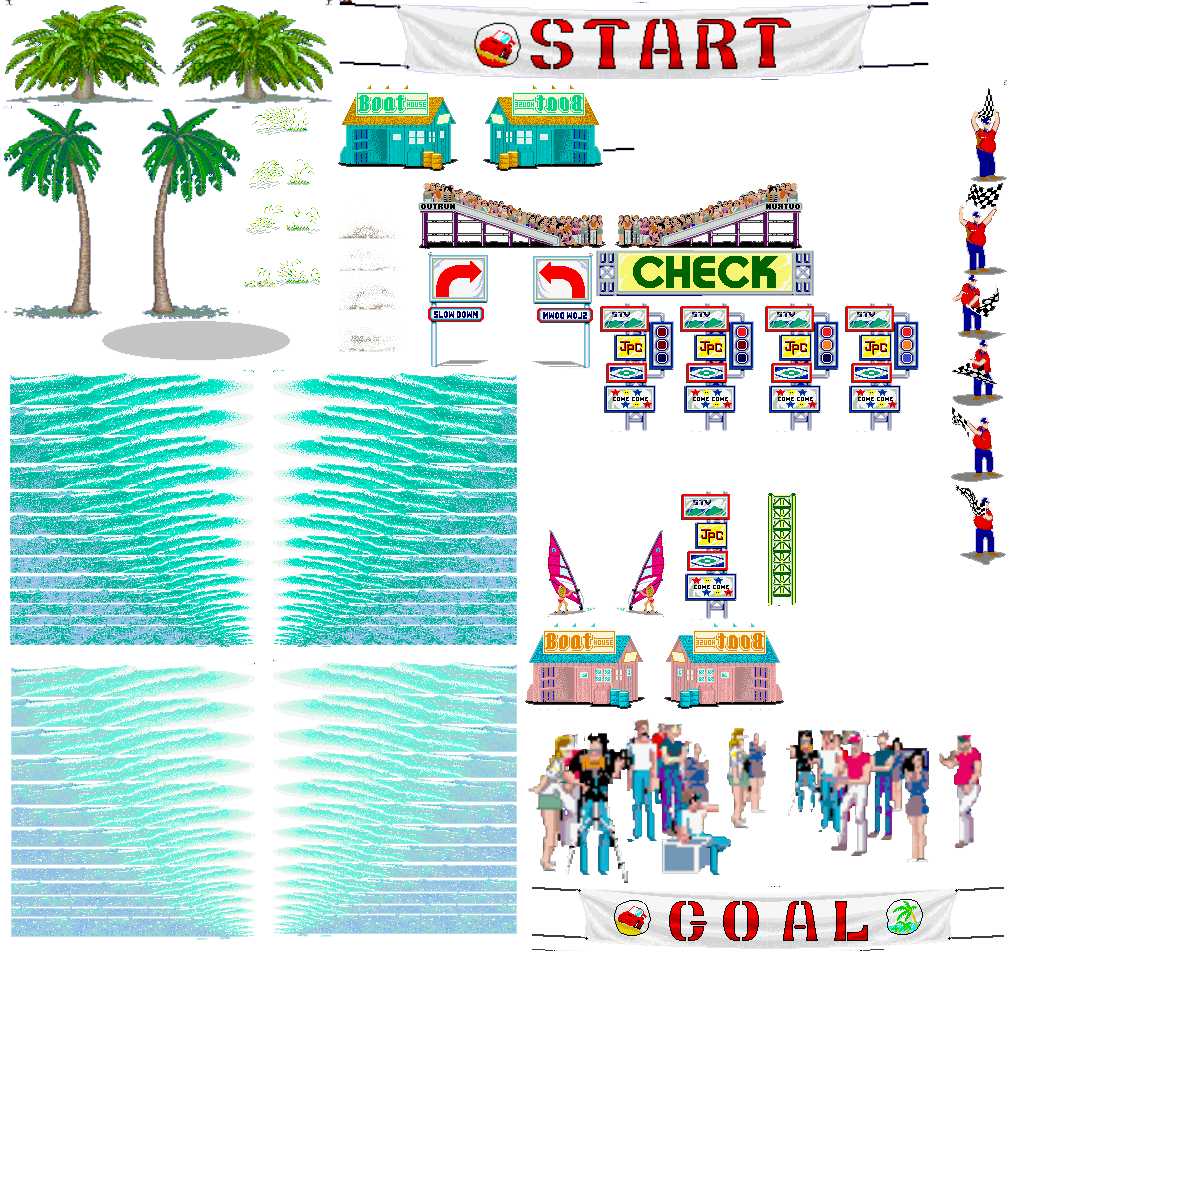
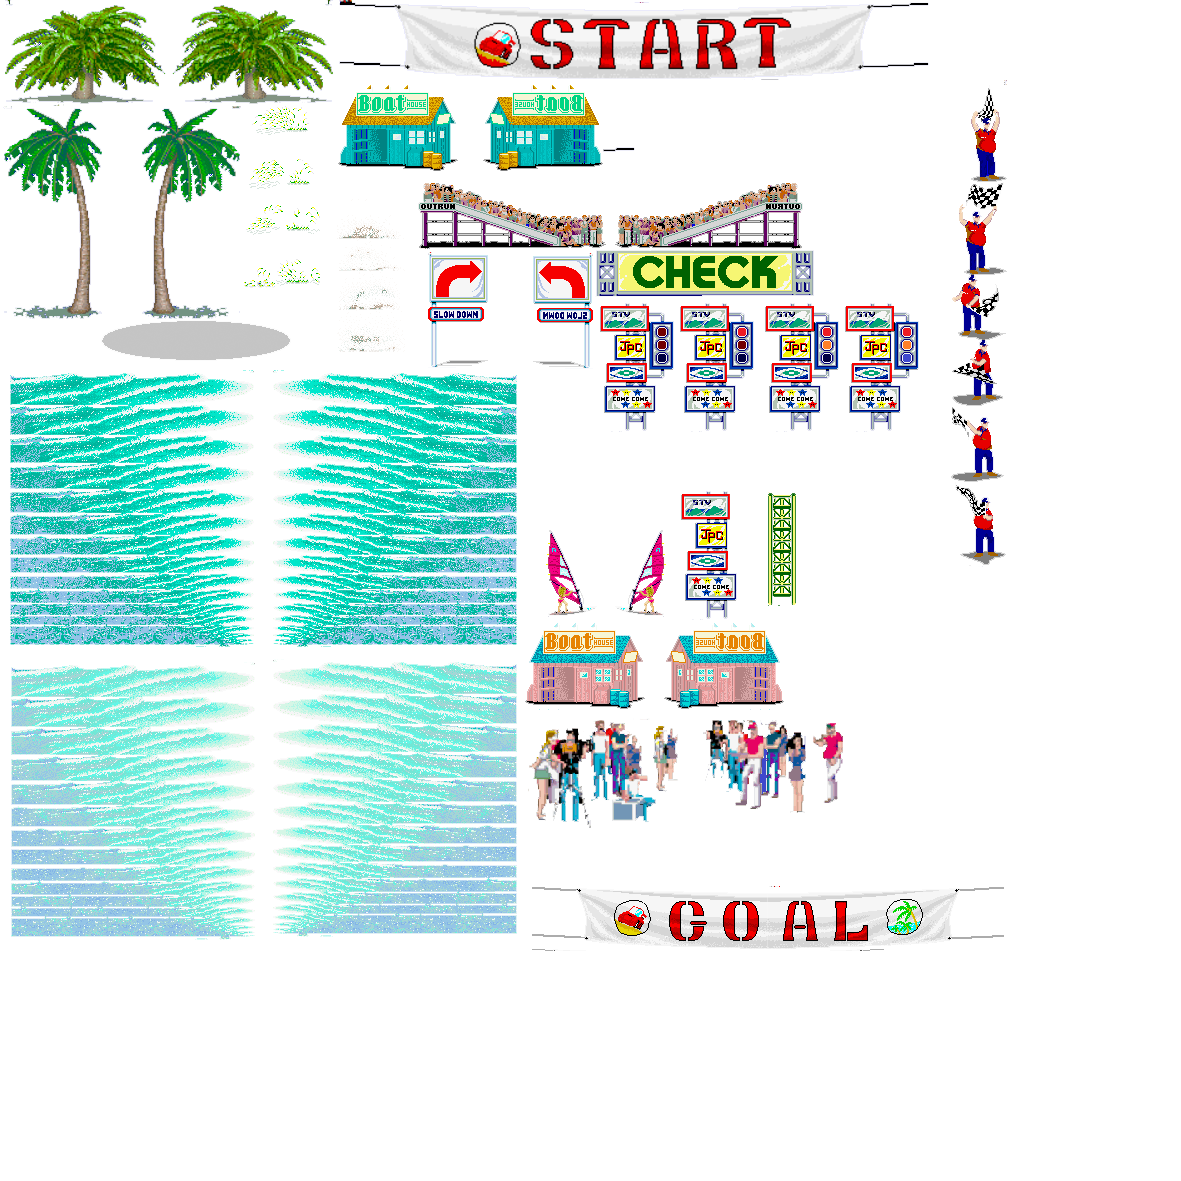
OutRun - Changes: +Balancing height of the objects

diff --git a/ModuleSceneStage.cpp b/ModuleSceneStage.cpp
@@ -79,7 +79,8 @@ ModuleSceneStage::ModuleSceneStage(bool start_enabled) : Module(start_enabled)
 	lppos = Rects.size() - 1;
 
 	Rect * StartFlag = new Rect();
-	StartFlag->rect={339, 256, 59, 111};
+	StartFlag->rect = { 340, 2,587 , 75 };
+//	StartFlag->rect={339, 256, 59, 111};
 	Rects.push_back(StartFlag);
 	sfpos = Rects.size() - 1;
 
@@ -104,14 +105,16 @@ ModuleSceneStage::ModuleSceneStage(bool start_enabled) : Module(start_enabled)
 	surpos = Rects.size() - 1;
 
 	Rect * People1 = new Rect();
-	People1->rect = { 528, 720, 238, 161 };
+	//People1->rect = { 528, 720, 238, 161 };
+	People1->rect = { 529, 601, 148, 226 };
 	Rects.push_back(People1);
-	surpos = Rects.size() - 1;
+	peopos1 = Rects.size() - 1;
 
 	Rect * People2 = new Rect();
-	People2->rect = { 786, 730, 195, 130 };
+	//People2->rect = { 786, 730, 195, 130 };
+	People2->rect = { 703, 717, 139, 95 };
 	Rects.push_back(People2);
-	surpos = Rects.size() - 1;
+	peopos2 = Rects.size() - 1;
 
 	Rect * Harrow = new Rect();
 	Harrow->rect = { 419, 183, 187, 64 };
@@ -178,24 +181,39 @@ ModuleSceneStage::ModuleSceneStage(bool start_enabled) : Module(start_enabled)
 		Line line;
 		line.zc = (float)i * 100;
 
-		if (0<i && i<780) {	
-			if (i<390) {
+		if (0<i && i<780) {
+			if (i == 24) {
+				line.position = peopos1;
+				line.spriteX = -0.8;
+			}
+			if (i == 26) {
+				line.position = peopos2;
+				line.spriteX = 0.8;
+			}
+			if (i == 25) {
+				line.position = sfpos;
+				line.spriteX = 0;
+				line.elevate = -250;
+			}
+			if (i<390 && (i>=24 && i<=26)) {
 				if (i % 20 == 0) {
 					line.position = harrowpos;
 					line.spriteX = -1.5;
 					line.scale = 3;
+					line.elevate = -10;
 				}
 				if (i % 21 == 0) {
 					line.position = ptbpos;
 					line.spriteX = 1.5;
+					line.elevate = -10;
 				}
 			}
 			else {
-				if (i % 20 == 0) {
+				if (i % 20 == 0 (i >= 24 && i <= 26)) {
 					line.position = ptspos;
 					line.spriteX = 1.5;
 				}
-				if (i % 21 == 0) {
+				if (i % 21 == 0 (i >= 24 && i <= 26)) {
 					line.position = ptspos;
 					line.spriteX = -1.5;
 				}
@@ -217,6 +235,7 @@ ModuleSceneStage::ModuleSceneStage(bool start_enabled) : Module(start_enabled)
 					line.position = rppos;
 					line.spriteX = -1.5;
 				}
+
 			}
 			if (i == 1559) lastValue = line.yc;
 			if (i>1200)line.curve = NOTCURVE;
@@ -472,7 +491,7 @@ void ModuleSceneStage::reDrawRoad()
 	int startPos = seg_pos / 100;
 	int camH = (int)(1500 + lines[startPos].yc);
 	float maxy = SCREEN_HEIGHT;
-	App->renderer->Blit(landscape, 0, -50, &background, 1);
+	App->renderer->Blit(landscape, 0, -150, &background, 1);
 	for (int n = startPos; n < startPos + 300; n++) {
 		Line &current = lines[n%N];
 
@@ -532,7 +551,7 @@ void ModuleSceneStage::reDrawRoad()
 
 		for (int n = startPos + 199; n >= startPos; n--) {
 			if (lines[n%N].position != -1) {
-				lines[n%N].DrawObject(Rects[lines[n%N].position]->rect, Stage1);
+				lines[n%N].DrawObject(Rects[lines[n%N].position]->rect, Stage1, lines[n%N].elevate);
 			}		
 		}
 		for (int n = startPos + 199; n >= startPos; n--) {

diff --git a/Line.h b/Line.h
@@ -16,18 +16,19 @@ public:
 	float spriteX;
 	float clip;
 	int position;
+	int elevate;
 	//Line() { xc = yc = zc = 0; X = 0; Y = SCREEN_HEIGHT; W = 0; spriteX = 0.f; clip = 0; scale = 0; position = -1; }
-	Line() { xc = yc = zc = 0; X = 0; Y = 0; W = 0; spriteX = 0.f; clip = 0; scale = 0; position = -1; }
+	Line() { xc = yc = zc = 0; X = 0; Y = 0; W = 0; spriteX = 0.f; clip = 0; scale = 1; position = -1; elevate = 0; }
 	float curve;
 	//-->from world to screen
 	void projection(int camX, int camY, int camZ) {
 		scale = (float)(camD / (zc - camZ));
 		X = (1 + scale*(xc - camX)) * SCREEN_WIDTH / 2;
-		Y = (1 - scale*(yc - camY)) * SCREEN_HEIGHT /2;
+		Y = (1 - scale*(yc - camY)) * SCREEN_HEIGHT /2.5;
 		W = scale* roadW * SCREEN_WIDTH / 2;
 
 	}
-	void DrawObject(SDL_Rect sp, SDL_Texture* tex) {
+	void DrawObject(SDL_Rect sp, SDL_Texture* tex, int elevate) {
 		float spriteXToDraw = spriteX;
 		int w = sp.w;
 		int h = sp.h;
@@ -57,7 +58,7 @@ public:
 		int spriteScaleW = (int)(sp.w*(destW / w));
 		//App->renderer->Blit(tex, (int)destX - spriteScaleW / 2, (int)destY + 5, &sp, 0.f, spriteScaleW, spriteScaleH);
 		//App->renderer->ScaledBlit(tex, (int)destX - spriteScaleW / 2,(int)destY+5, &sp, 0.f, 1.5, 1.5);
-		App->renderer->BlitObjects(tex, (int)destX - spriteScaleW / 2,(int)destY, &sp, 0.f, spriteScaleW, spriteScaleH);
+		App->renderer->BlitObjects(tex, (int)destX - spriteScaleW / 2,(int)destY, &sp, 0.f, spriteScaleW, spriteScaleH, elevate);
 	}
 	void DrawCars(SDL_Rect sp, SDL_Texture* tex) {
 	

diff --git a/ModuleRender.cpp b/ModuleRender.cpp
@@ -117,12 +117,12 @@ bool ModuleRender::Blit(SDL_Texture* texture, int x, int y, SDL_Rect* section, f
 	return ret;
 }
 
-bool ModuleRender::BlitObjects(SDL_Texture* texture, int x, int y, SDL_Rect* section, float speed, int scW,int scH)
+bool ModuleRender::BlitObjects(SDL_Texture* texture, int x, int y, SDL_Rect* section, float speed, int scW,int scH,int elevate)
 {
 	bool ret = true;
 	SDL_Rect rect;
 	rect.x = (int)(camera.x * speed) + x * SCREEN_SIZE;
-	rect.y = (int)(camera.y * speed) + y * SCREEN_SIZE;
+	rect.y = (int)(camera.y * speed) + y * SCREEN_SIZE + elevate;
 
 	if (section != NULL)
 	{

diff --git a/SDL/include/SDL_render.h b/SDL/include/SDL_render.h
@@ -66,6 +66,7 @@ typedef enum
     SDL_RENDERER_SOFTWARE = 0x00000001,         /**< The renderer is a software fallback */
     SDL_RENDERER_ACCELERATED = 0x00000002,      /**< The renderer uses hardware
                                                      acceleration */
+	SLD_RENDERER_NORMALVSYNC = 0x00000003,
     SDL_RENDERER_PRESENTVSYNC = 0x00000004,     /**< Present is synchronized
                                                      with the refresh rate */
     SDL_RENDERER_TARGETTEXTURE = 0x00000008     /**< The renderer supports

diff --git a/ModuleRender.h b/ModuleRender.h
@@ -24,7 +24,7 @@ public:
 
 	bool ScaledBlit(SDL_Texture * texture, int x, int y, SDL_Rect * section, float speed, float scaledW, float scaledH);
 	
-	bool BlitObjects(SDL_Texture* texture, int x, int y, SDL_Rect* section, float speed, int scW, int scH);
+	bool BlitObjects(SDL_Texture* texture, int x, int y, SDL_Rect* section, float speed, int scW, int scH, int elevate);
 
 public:
 	SDL_Renderer* renderer = nullptr;
